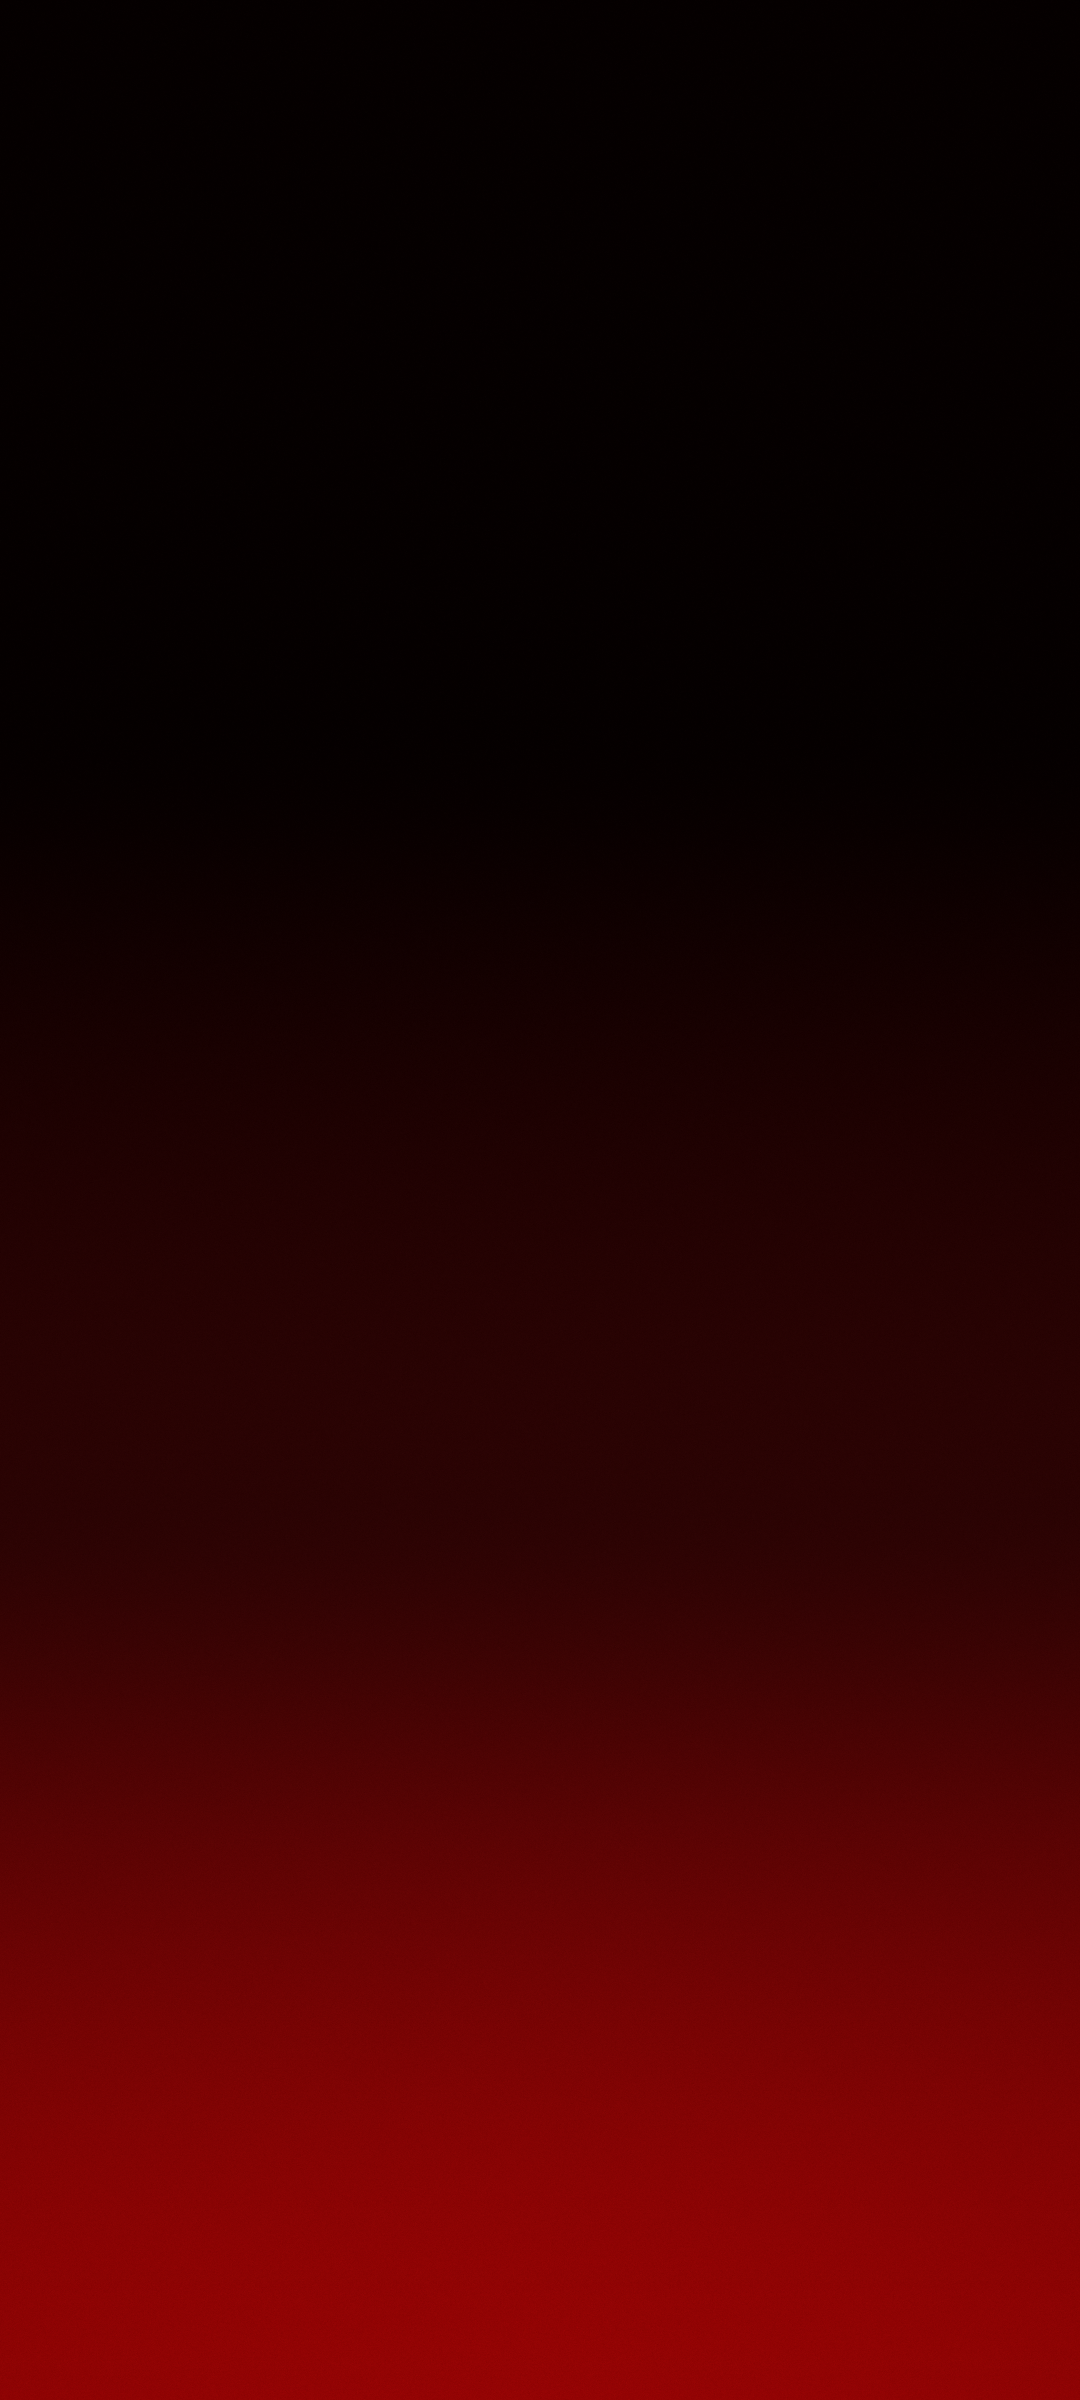
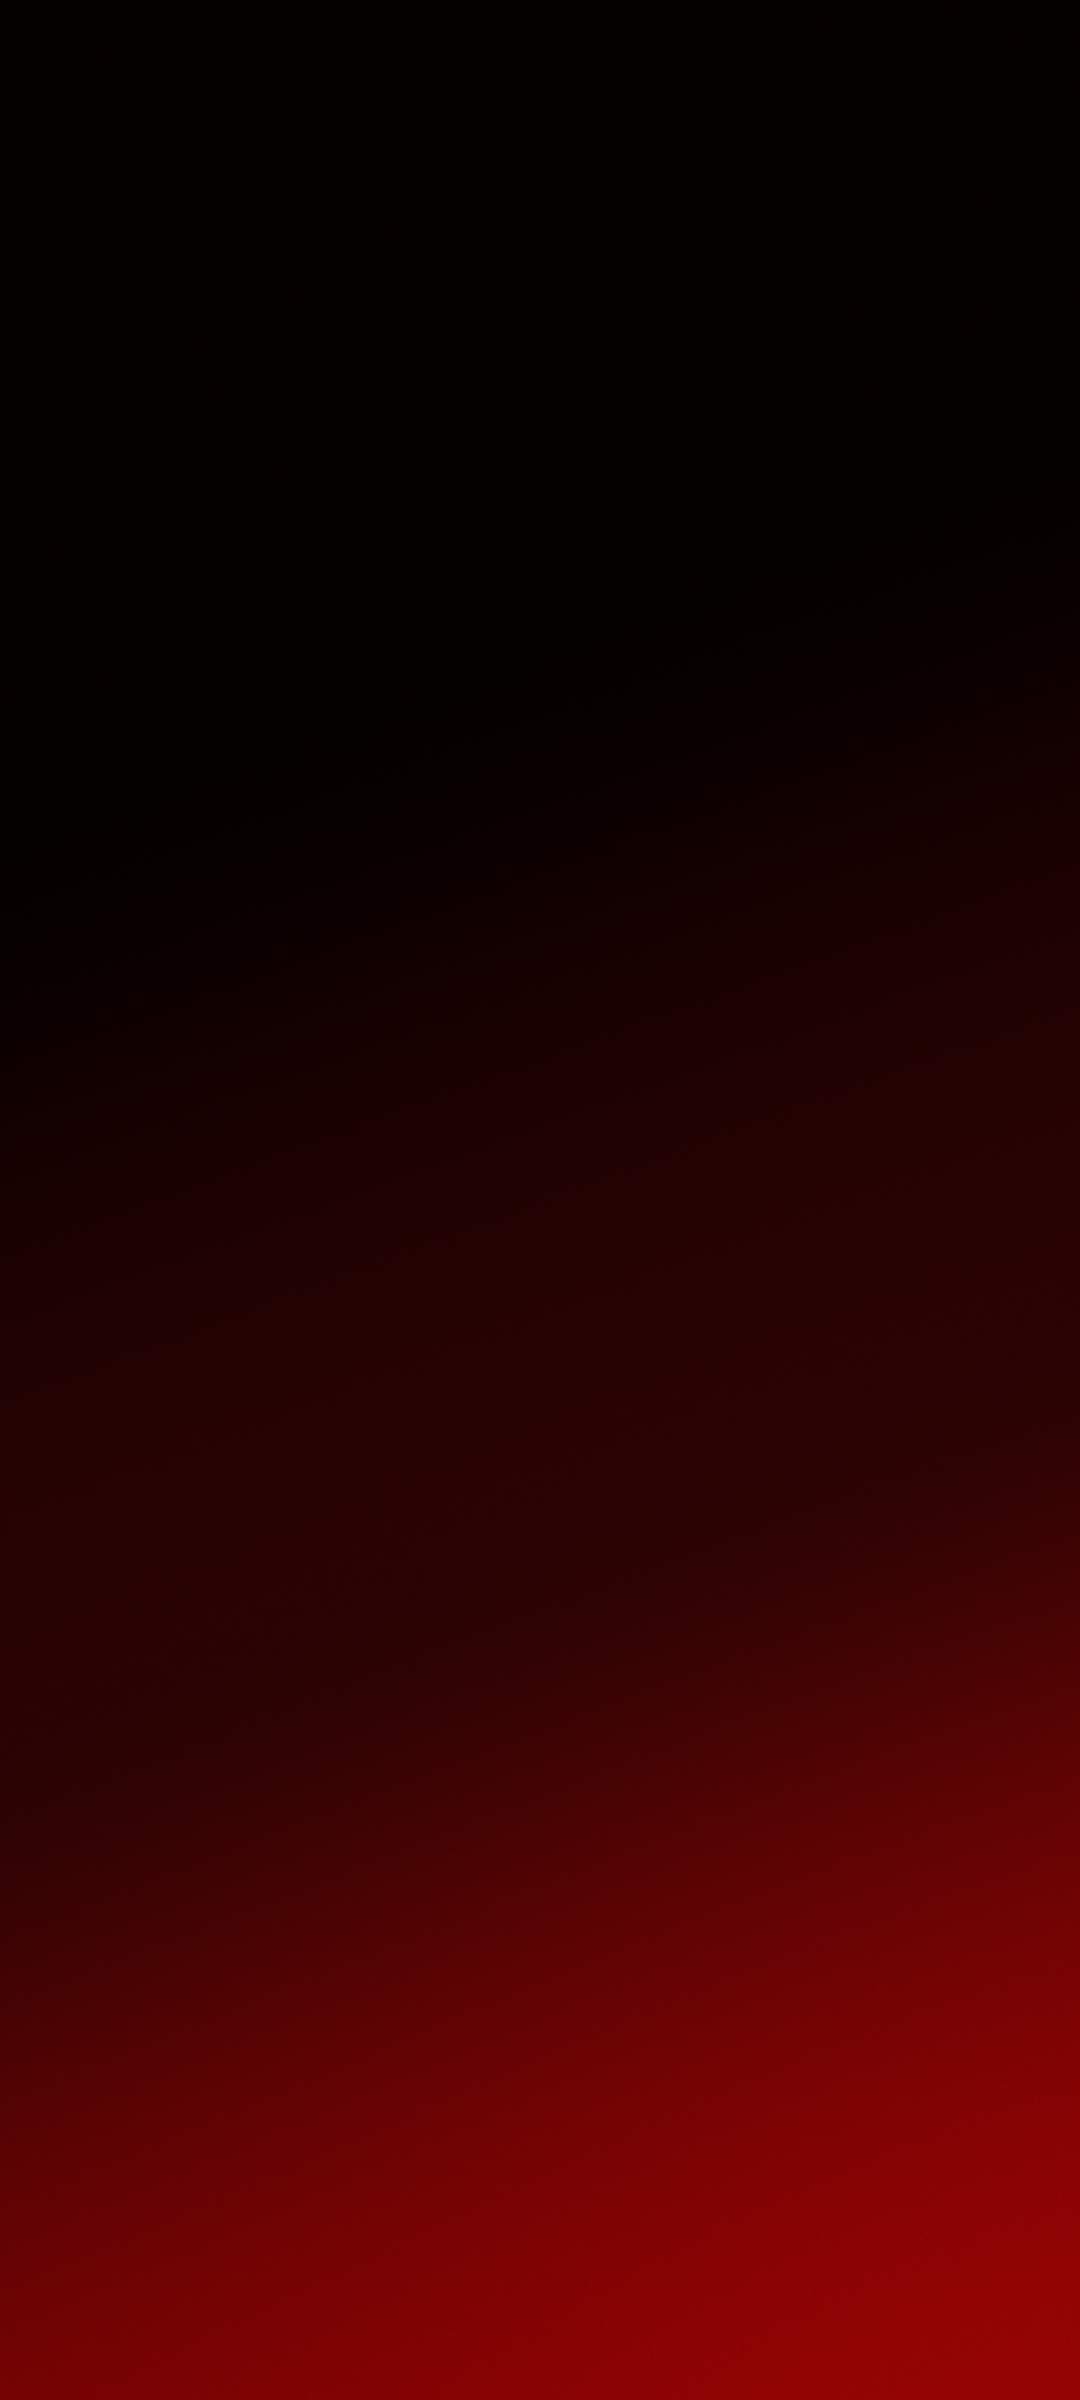
Tilt the gradient 20 degrees

Changed region(s): [[0.0, 0.6875, 0.3972, 1.0]]

diff --git a/build.py b/build.py
@@ -6,6 +6,7 @@ import numpy as np
 from PIL import Image
 
 BASE = "https://sayer.pages.dev/themes"
+BG_VERSION = 2  # bump when the PNG changes: Android caches images by address
 OUT = os.path.dirname(os.path.abspath(__file__))
 
 PALETTE = {
@@ -118,7 +119,7 @@ def theme(p):
                 "img_guild_folder": p["accent"],
             },
         },
-        "background": {"url": f"{BASE}/crimson-fade-bg.png", "blur": 0, "alpha": 1},
+        "background": {"url": f"{BASE}/crimson-fade-bg.png?v={BG_VERSION}", "blur": 0, "alpha": 1},
     }
 
 
@@ -136,21 +137,24 @@ def rgb(h):
     return np.array([int(h[i:i + 2], 16) for i in (1, 3, 5)], dtype=np.float64)
 
 
-def background(p, w=1080, h=2400):
+def background(p, w=1080, h=2400, tilt=20):
     stops = [(0.0, p["grad_top"]), (0.30, p["grad_top"]), (0.62, p["grad_mid"]), (1.0, p["grad_bot"])]
-    y = np.linspace(0, 1, h)
-    lin = np.zeros((h, 3))
+    # gradient axis tilted from vertical: dark top-left, red bottom-right
+    th = np.radians(tilt)
+    X, Y = np.meshgrid(np.arange(w) - w / 2, np.arange(h) - h / 2)
+    d = X * np.sin(th) + Y * np.cos(th)
+    reach = abs(w / 2 * np.sin(th)) + abs(h / 2 * np.cos(th))  # corners land on 0 and 1
+    tt = (d / reach + 1) / 2
+    img = np.zeros((h, w, 3))
     for (t0, c0), (t1, c1) in zip(stops, stops[1:]):
-        m = (y >= t0) & (y <= t1)
-        t = (y[m] - t0) / (t1 - t0)
+        m = (tt >= t0) & (tt <= t1)
+        t = (tt[m] - t0) / (t1 - t0)
         t = t * t * (3 - 2 * t)  # smoothstep between stops: no visible kinks
         l0, l1 = srgb_to_lin(rgb(c0)), srgb_to_lin(rgb(c1))
-        lin[m] = l0 + (l1 - l0) * t[:, None]
-    img = np.repeat(lin[:, None, :], w, axis=1)
-    # soft glow rising from the bottom centre for depth
-    xx = (np.arange(w) - w / 2) / (w * 0.75)
-    yy = (np.arange(h) - h * 1.05) / (h * 0.45)
-    glow = np.exp(-(xx[None, :] ** 2 + yy[:, None] ** 2) * 1.6)
+        img[m] = l0 + (l1 - l0) * t[:, None]
+    # soft glow at the red end of the axis for depth
+    gx, gy = reach * 1.05 * np.sin(th), reach * 1.05 * np.cos(th)
+    glow = np.exp(-(((X - gx) / (w * 0.75)) ** 2 + ((Y - gy) / (h * 0.45)) ** 2) * 1.6)
     img = img * (1 + 0.22 * glow[:, :, None])
     s = lin_to_srgb(img)
     rng = np.random.default_rng(7)
